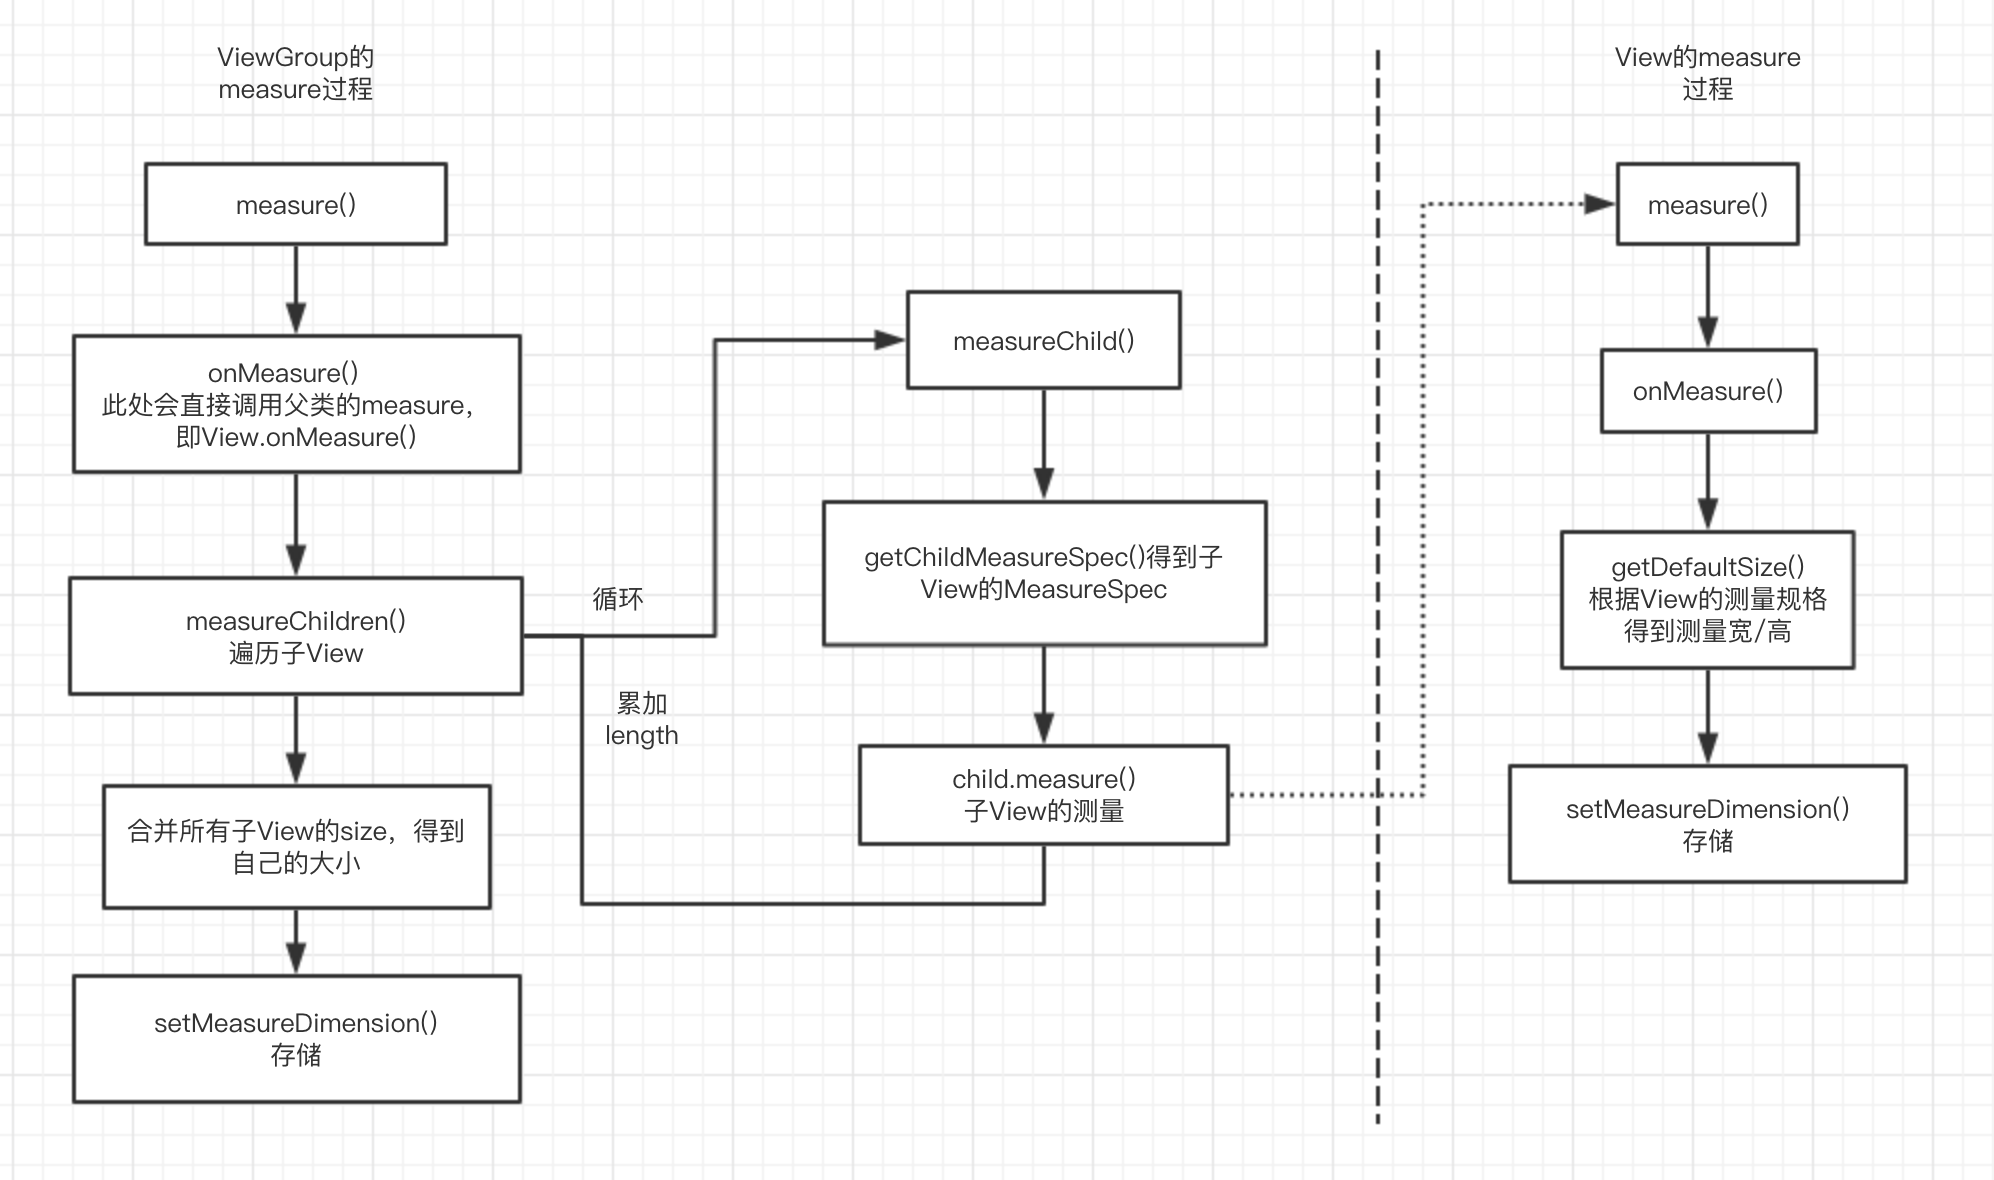
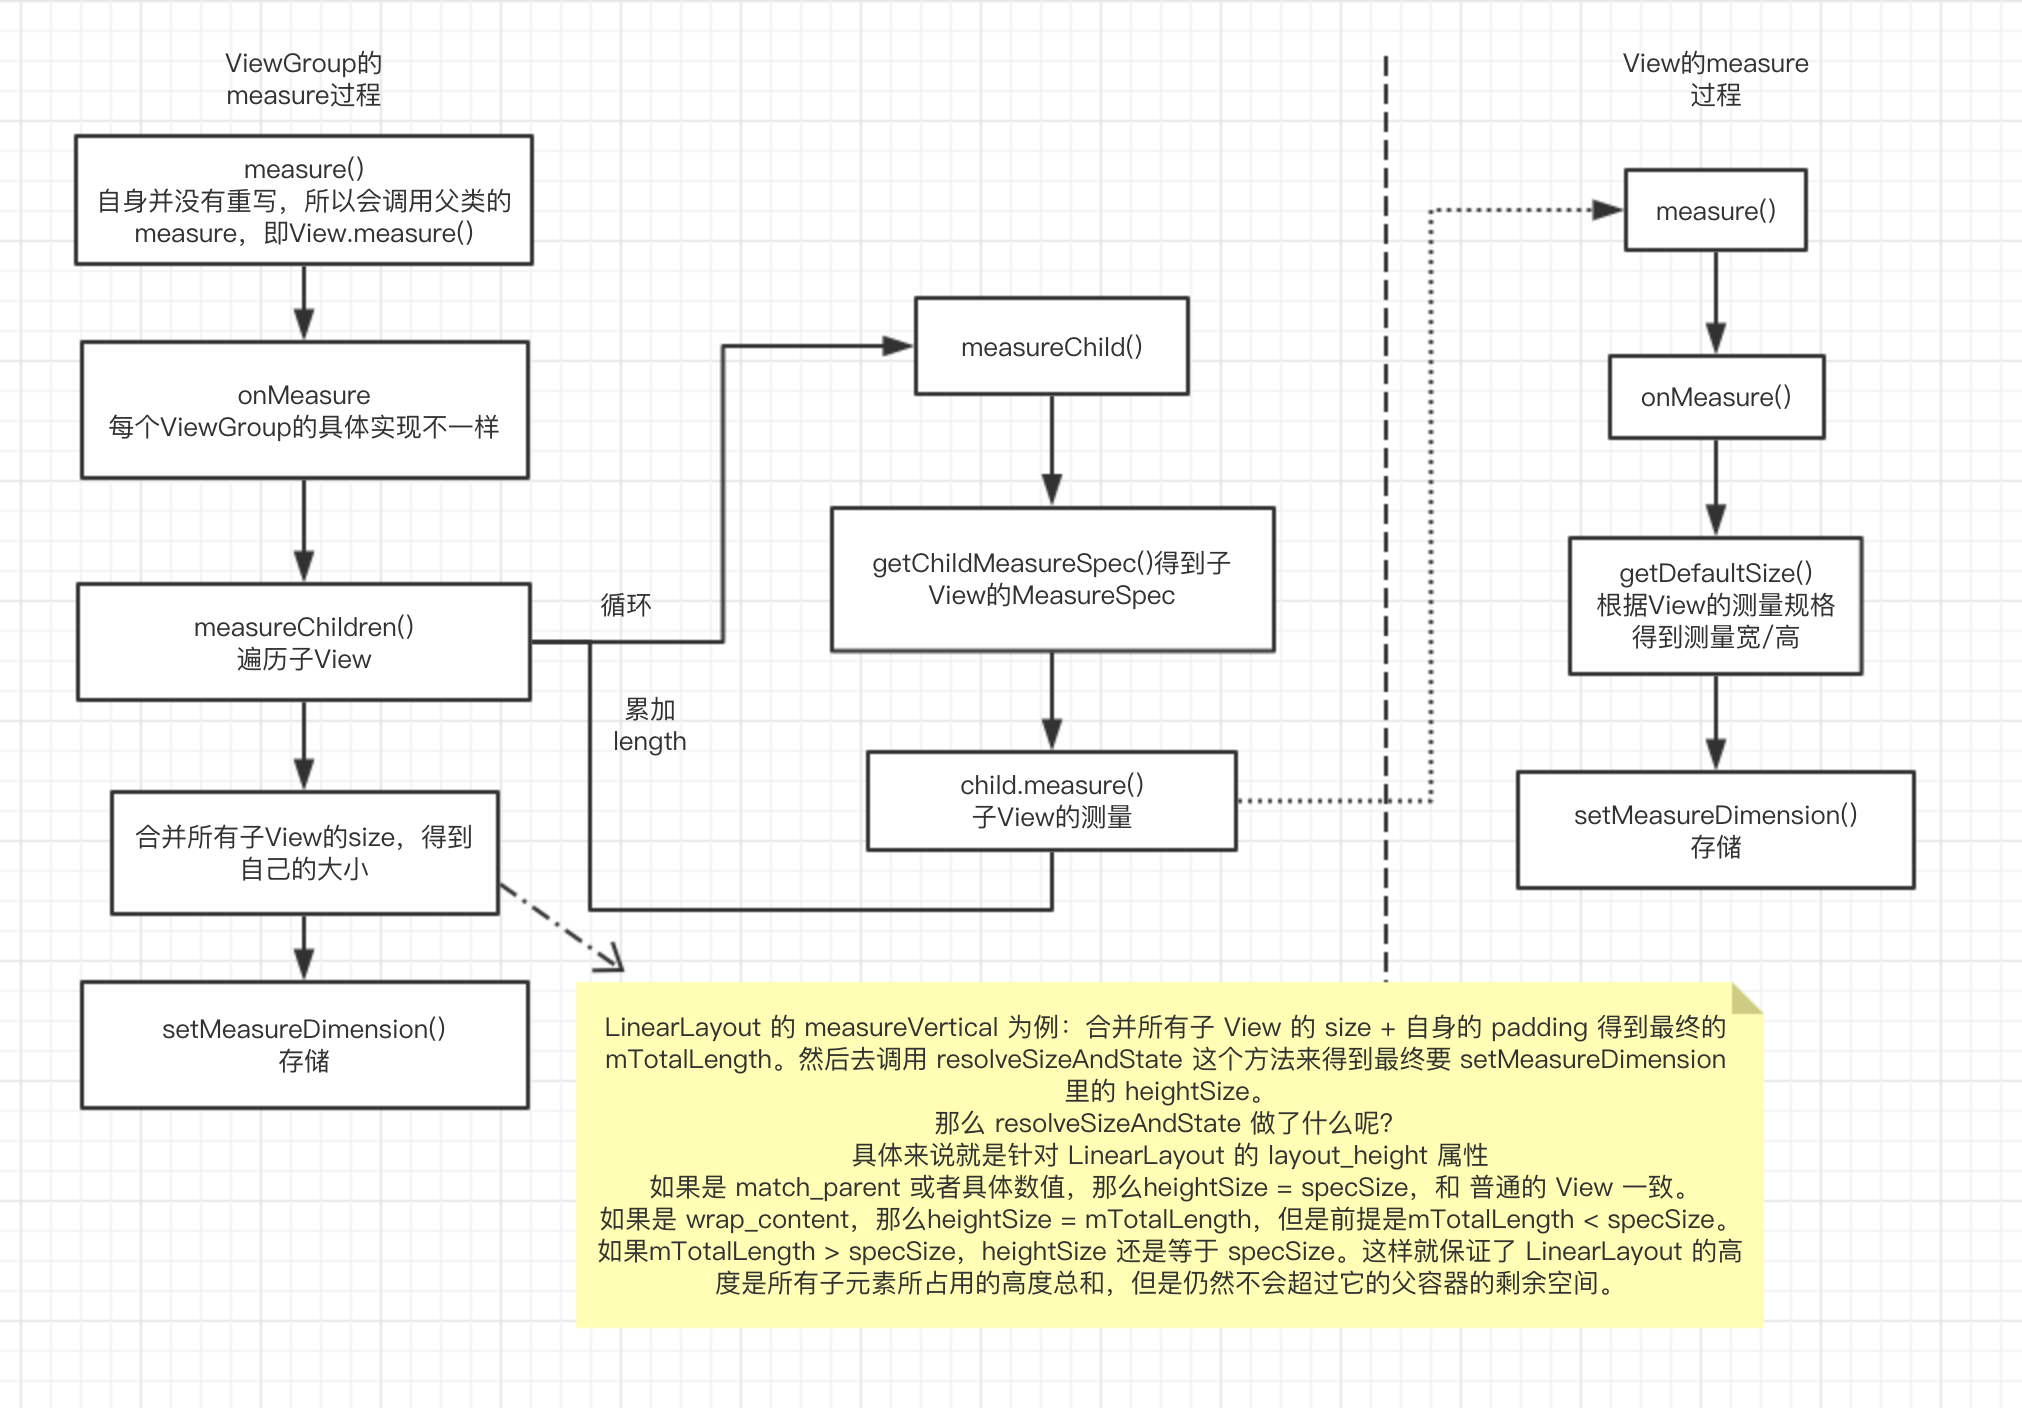
View 绘制

Changed region(s): [[0.0311, 0.0305, 0.9639, 0.9458]]

diff --git a/questions/View绘制流程.md b/questions/View绘制流程.md
@@ -11,12 +11,12 @@ MeasureSpec
 | -- | -----   | ------ | -- |   ---: |
 | UNSPECIFIED |
 | EXACTLY | 子视图代下必须在父视图指定的确切尺寸内 | match_parent 或 具体数值(如100dp) | 当为具体数值时，View的最终大小就是Spec指定的值，所以父控件可通过 MeasureSpec.getSize()直接得到子控件的尺寸 | |
-|AT_MOST | 父视图为子视图指定一个最大尺寸，子视图必须确保自身和它是所有子视图可适应在该尺寸内 | 自适应大小(wrap_content) | 该模式下，父控件无法确定子View的尺寸，只能由子控件自身根据需求计算尺寸。该模式= 自定义视图需要实现测量逻辑的情况 | 也就是说该模式下，自定义View需要自行实现onMeasure方法，确保测量准确？ |
+|AT_MOST | 父视图为子视图指定一个最大尺寸，子视图必须确保自身和它是所有子视图可适应在该尺寸内 | 自适应大小(wrap_content) | 该模式下，父控件无法确定子View的尺寸，只能由子控件自身根据需求计算尺寸。该模式= 自定义视图需要实现测量逻辑的情况 | 也就是说该模式下，自定义View需要自行实现onMeasure方法，确保测量准确？是的，给出默认大小 |
 
 ![measure](img/measure.png)
 
 
-#### 1.1 问题
+#### 1.1 问题1
 分析完后，知道了 MeasureSpec 的作用，以及 ViewGroup 中的 getChildMeasureSpec 方法。在分析这个方法的时候，知道了如果子 View 没有给出具体的 dp 大小，那么测量出的大小会等于父容器当前剩余空间的大小。
 即 `int size = Math.max(0, specSize - padding);`
 在看的时候没有任何问题，但是自己想着想着的时候，突然被绕进去了，想到一个问题
@@ -24,6 +24,7 @@ MeasureSpec
 **A1：** 
 因为根据 getChildMeasureSpec 方法可以知道，这个时候子 View 的大小是等于 父容器剩余空间的大小的，可是当我们用 ImageView，TextView 等做例子时，会发现他们并不是填充整个父容器，而是有着**刚好适应内容的最小尺寸**的。这个我就晕了，为啥跟结论不对呢。这个疑惑一直困扰着我看源代码。 后面才发现，ImageView、TextView 他们是复写了 onMeasure 的，在里面针对 wrap_content 的情况，会给宽/高一个默认值，当然这个默认值是有特殊处理的，至于怎么处理，查看他们的源码即可。
 到这里终于解决了这个疑惑，原来是通过指定一个默认大小 (宽 / 高) 解决的这个问题。
+**总结： 直接继承 View 的自定义控件需要重写 onMeasure 方法并设置 wrap_content 时的自身默认大小，否则在布局中使用 wrap_content 就相当于使用 match_parent。**
 
 **TextView onMeasure 部分源码**
 ```
@@ -31,16 +32,38 @@ MeasureSpec
             // width 在上面还会做各种处理,为了找到最小的 width
             width = Math.max(width, getSuggestedMinimumWidth());
 
+			//当widthMode 为 AT_MOST，即 wrap_content 时，给 width 设置默认大小
             if (widthMode == MeasureSpec.AT_MOST) {
                 width = Math.min(widthSize, width);
             }
 ```
 
+#### 1.2 问题2
+我们现在知道在 measure 的时候，父 View 会传入自己的 MeasureSpec 给子 View，用于测量。
+即 `public final void measure(int widthMeasureSpec, int heightMeasureSpec)`中的 widthMeasureSpec、heightMeasureSpec 参数。
+**Q2：那么假设 LinearLayout布局，orientation 为 vertical 的 ViewGroup 测量时，他并不知道自己的heightMeasureSpec 的 SpecSize 是多大呀，那子 View 是怎样在 getChildMeasureSpec() 中得到 parentSize 的呢。
+（翻译：LinearLayout 的高度还没测量完，下面这段的代码的heightMeasureSpec是怎么确定的。因为要先把子 View 的高度计算出来，并累加起来，才能确定LinearLayout 的高度。）**
+**A1:** 根据源码弄清楚流程。
+```
+				// Determine how big this child would like to be. If this or
+                // previous children have given a weight, then we allow it to
+                // use all available space (and we will shrink things later
+                // if needed).
+                final int usedHeight = totalWeight == 0 ? mTotalLength : 0;
+                measureChildBeforeLayout(child, i, widthMeasureSpec, 0,
+                        heightMeasureSpec, usedHeight);
+```
+这段是 LinearLayout 中 measureVertical 方法里 对子 View 进行 for 循环的那段。 这里对每个子 View 进行 measure 测量，而 measureChildBeforeLayout 里的 heightMeasureSpec  参数就是问题的疑惑点。
+
+在** Q2 **的中透露出来这么一个逻辑导致了这样一个问题的产生。那就是在测量时，我们都知道 measureSpec 测量规格是由 父View 传来的，而在第一印象中 LinearLayout 就是子 View 的父View，所以我就会想这里既然这里是对子 View 进行测量，那这个 heightMeasureSpec 肯定是 LinearLayout 的 heightMeasureSpec 嘛，可是在垂直布局的 LinearLayout 中，高度是还不确定的，因为子 View 还没测量完，所以这里产生了疑惑。
+后面仔细看代码，发现自己绕进去了，原来这里的 heightMeasureSpec 是 LinearLayout 的父 View 的heightMeasureSpec。因此解除了心中的疑惑，
+
+
 ### 2. layout
 
 ![layout](img/layout.png)
 
-**下面的代码为 ViewGroup 中的 onLayout 伪码实现**
+**因为  onLayout 在 ViewGroup中是抽象方法，所以自定义 ViewGroup，必须重写该方法。下面的代码为 自定义ViewGroup 中的 onLayout 伪码实现，这是通常的做法，具体怎么实现取决你自己**
 ```
 @Override
     protected void onLayout(boolean changed, int l, int t, int r, int b) {
@@ -69,7 +92,7 @@ MeasureSpec
 
 ![draw](img/draw.png)
 
-**问题 ： onDraw 只有在 View 里生效，ViewGroup 重写了也无用。**
+**问题 ： onDraw 只有在 View 里生效，ViewGroup 重写了也无用。( View 的特殊方法 setWillNotDraw )**
 学习了 draw 流程后立马尝试了下，却发现在 ViewGroup 中不生效，此时我的心是拨凉拨凉的，后面查阅资料发现是由于一个小细节。
 `View.setWillNotDraw()`
 这个方法在捣蛋。
@@ -82,7 +105,59 @@ MeasureSpec
  b. setWillNotDraw参数设置为false：当自定义View继承自 ViewGroup 、且需要绘制内容时，那么设置为 false，来关闭 WILL_NOT_DRAW 这个标记位。
 
 
-#### 4. 参考
+### 4. 在 Activity 中正确的获取某个 View 的 宽 / 高
+
+- 4.1 **在 Activity 中的 onWindowFocusChanged 方法获取**
+
+- 4.2  **View.post(Runnable)**
+
+- 4.3 **ViewTreeObserver 获取**
+
+上述三种方法的获取代码如下：
+
+```
+private CustomView customView;
+
+    @Override
+    protected void onCreate(Bundle savedInstanceState) {
+        super.onCreate(savedInstanceState);
+        setContentView(R.layout.activity_main);
+        customView = findViewById(R.id.custom_view);
+        //尝试在onCreate 中获取
+        Log.d(TAG, "onCreate: ----------->"+customView.getMeasuredWidth());
+        Log.d(TAG, "onCreate: getWidth----------->"+customView.getWidth());
+        //4.2 post 方法
+        customView.post(new Runnable() {
+            @Override
+            public void run() {
+                Log.d(TAG, "post Runnable: ----------->"+customView.getMeasuredWidth());
+            }
+        });
+
+        //4.3 ViewTreeObserver 方法
+        ViewTreeObserver observer = customView.getViewTreeObserver();
+        observer.addOnGlobalLayoutListener(new ViewTreeObserver.OnGlobalLayoutListener() {
+            @Override
+            public void onGlobalLayout() {
+                Log.d(TAG, "ViewTreeObserver: ----------->"+customView.getMeasuredWidth());
+            }
+        });
+    }
+
+	//4。1 onWindowFocusChanged 方法
+    @Override
+    public void onWindowFocusChanged(boolean hasFocus) {
+        super.onWindowFocusChanged(hasFocus);
+        Log.d(TAG, "onWindowFocusChanged: ----------->"+customView.getMeasuredWidth());
+    }
+```
+
+**运行结果如下**
+![宽高获取方法](img/viewtreeobserver.png)
+
+
+
+#### 5. 参考
 https://www.jianshu.com/p/146e5cec4863
 https://blog.csdn.net/yanbober/article/details/46128379
 
